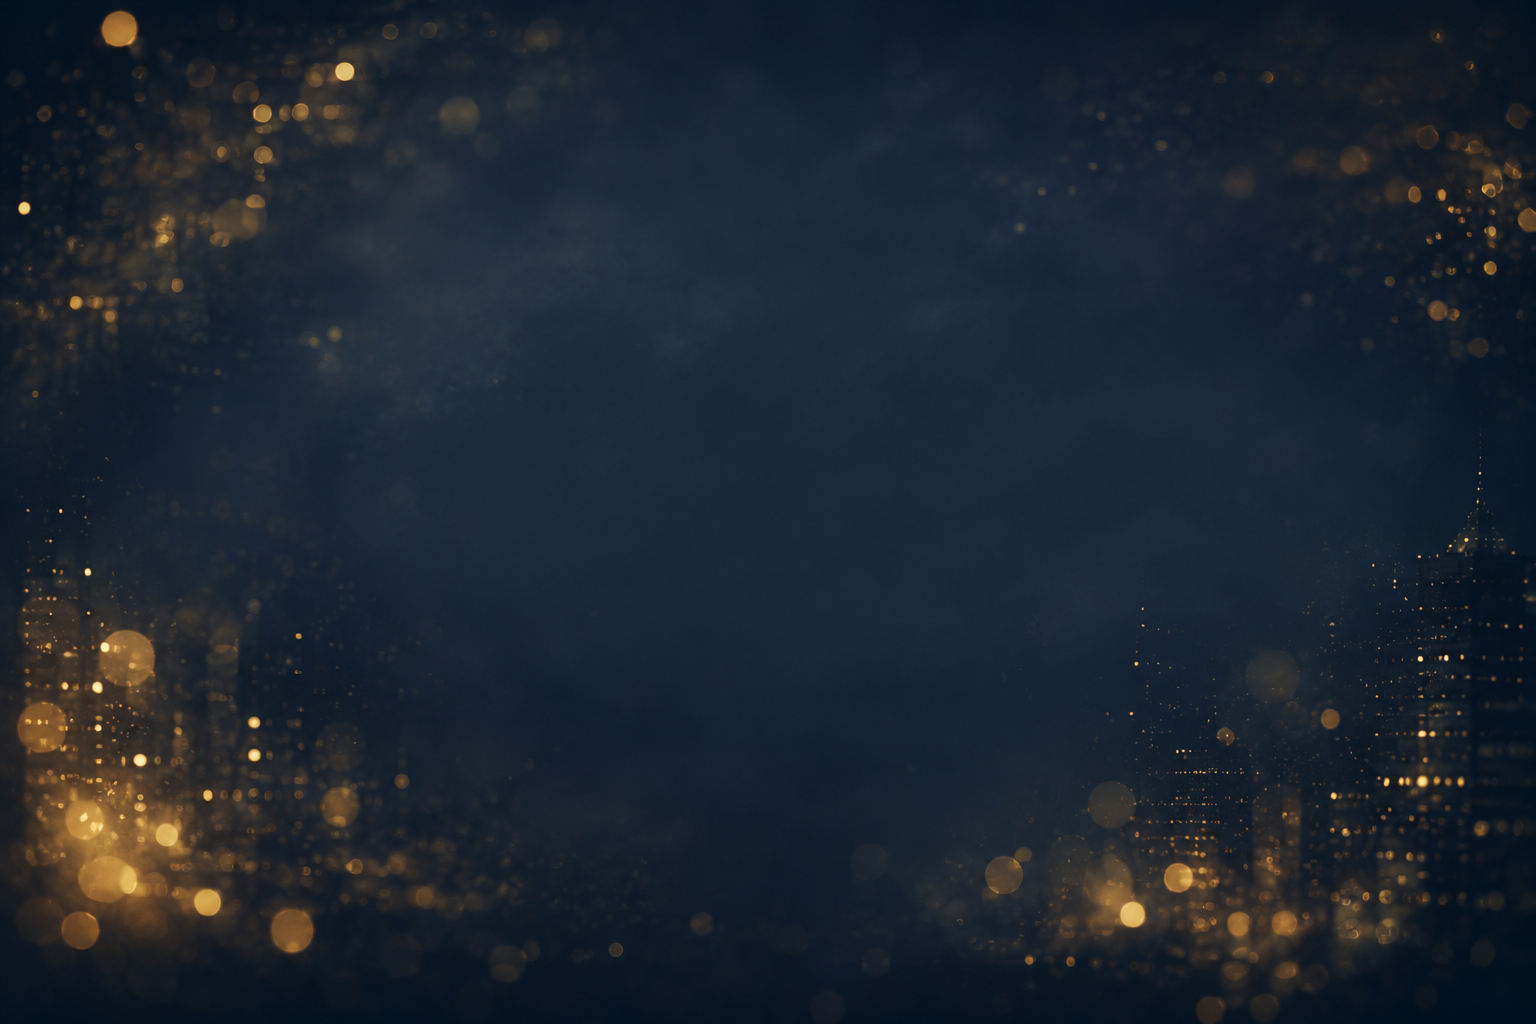
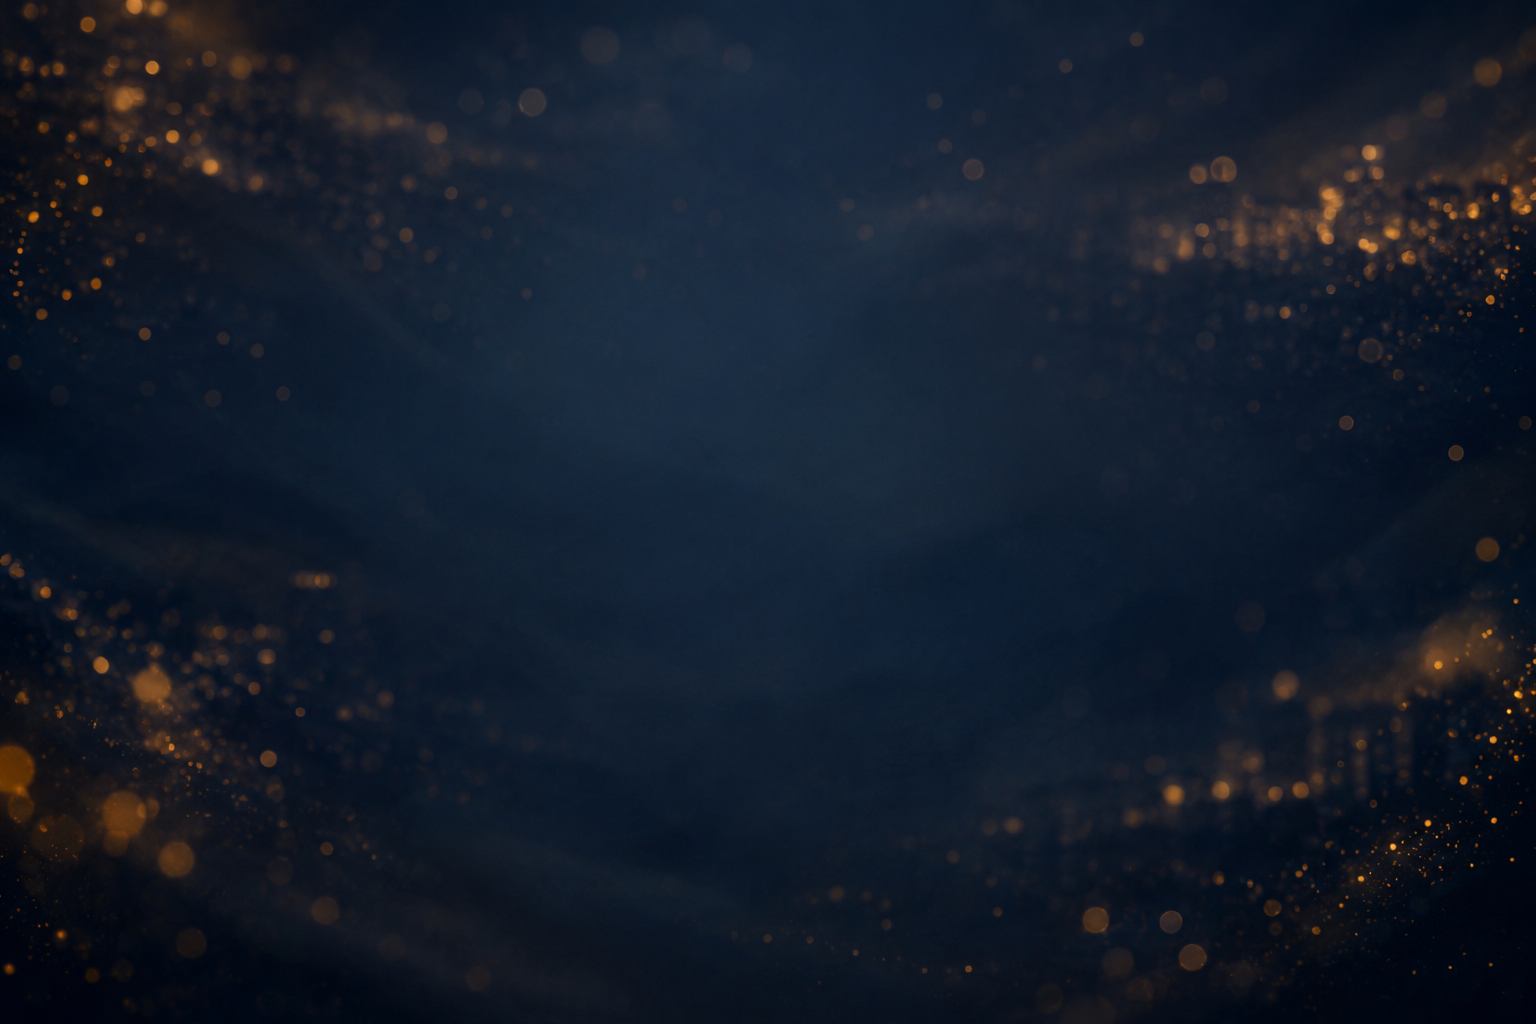
feat: add emerald/plum/carbon/aurora/dune hero cover presets

diff --git a/src/components/HeroCard/HeroCard.tsx b/src/components/HeroCard/HeroCard.tsx
@@ -150,7 +150,7 @@ function CardChip() {
 
 function ContactlessGlyph() {
   return (
-    <svg width="15" height="15" viewBox="0 0 24 24" fill="none" aria-hidden className="text-white/70">
+    <svg width="15" height="15" viewBox="0 0 24 24" fill="none" aria-hidden className="text-white/85">
       <path d="M8.5 8a6 6 0 0 1 0 8" stroke="currentColor" strokeWidth="2" strokeLinecap="round" />
       <path d="M12 5.5a10 10 0 0 1 0 13" stroke="currentColor" strokeWidth="2" strokeLinecap="round" />
       <path d="M15.5 3a14 14 0 0 1 0 18" stroke="currentColor" strokeWidth="2" strokeLinecap="round" />
@@ -160,18 +160,18 @@ function ContactlessGlyph() {
 
 function MetricItem({ icon, label, value, helper }: MetricProps) {
   return (
-    <div className="flex min-w-0 items-center gap-1.5 px-1">
-      <span className="grid h-5 w-5 shrink-0 place-items-center rounded-full border border-[#FFE2B8]/48 bg-[#FFE2B8]/10 text-[#FFE2B8] shadow-[inset_0_1px_0_rgba(255,255,255,0.12)]">
+    <div className="flex min-w-0 items-center gap-1 px-0.5">
+      <span className="grid h-[18px] w-[18px] shrink-0 place-items-center rounded-full border border-[#FFE2B8]/48 bg-[#FFE2B8]/10 text-[#FFE2B8] shadow-[inset_0_1px_0_rgba(255,255,255,0.12)]">
         {icon}
       </span>
       <span className="min-w-0">
-        <span className="block truncate font-mono text-[0.46rem] font-semibold uppercase leading-none tracking-[0.05em] text-[#FFE2B8]/72">
+        <span className="block truncate font-mono text-[0.52rem] font-semibold uppercase leading-none tracking-[0.03em] text-[#FFE2B8]/85">
           {label}
         </span>
-        <span className="mt-1 block truncate font-mono-th text-[0.62rem] font-medium leading-none tracking-[0.03em] text-white/86">
+        <span className="mt-1 block truncate font-mono-th text-[0.74rem] font-medium leading-none tracking-[0.02em] text-white/85">
           {value}
         </span>
-        <span className="mt-0.5 block truncate font-mono-th text-[0.42rem] font-medium leading-[0.62rem] tracking-[0.03em] text-white/56">
+        <span className="mt-0.5 block truncate font-mono-th text-[0.5rem] font-medium leading-[0.72rem] tracking-[0.02em] text-white/85">
           {helper}
         </span>
       </span>
@@ -261,17 +261,17 @@ export const HeroCard = memo(function HeroCard({
           </div>
           {validThruLabel && (
             <div className="leading-none">
-              <span className="block font-mono text-[0.45rem] font-bold uppercase tracking-[0.20em] text-white/62">
+              <span className="block font-mono text-[0.45rem] font-bold uppercase tracking-[0.20em] text-white/85">
                 Valid Thru
               </span>
-              <span className="mt-0.5 block font-mono text-[0.58rem] font-semibold tabular-nums tracking-[0.08em] text-white/90">
+              <span className="mt-0.5 block font-mono text-[0.58rem] font-semibold tabular-nums tracking-[0.08em] text-white/85">
                 {validThruLabel}
               </span>
             </div>
           )}
         </div>
         <div className="relative z-10 flex items-start justify-between gap-3">
-          <h2 className="min-w-0 truncate py-0.5 font-mono-th text-[0.85rem] font-light leading-tight tracking-[0.12em] text-white drop-shadow-[0_2px_10px_rgba(18,16,15,0.34)] min-[480px]:text-[1.42rem]">
+          <h2 className="min-w-0 truncate py-0.5 font-mono-th text-[0.85rem] font-light leading-tight tracking-[0.12em] text-white/85 drop-shadow-[0_2px_10px_rgba(18,16,15,0.34)] min-[480px]:text-[1.42rem]">
             สวัสดี {displayName}
           </h2>
           <div className="flex shrink-0 items-center gap-1 text-white/85 drop-shadow-[0_2px_10px_rgba(18,16,15,0.5)]">
@@ -312,10 +312,10 @@ export const HeroCard = memo(function HeroCard({
 
         <div className="relative z-10 mt-2">
           <div className="flex min-w-0 max-w-full items-baseline gap-2 whitespace-nowrap">
-            <span className="font-mono text-[clamp(1.1rem,5.2vw,2rem)] font-semibold leading-none tracking-[0.02em] tabular-nums text-white/90 drop-shadow-[0_2px_12px_rgba(18,16,15,0.36)]">
+            <span className="font-mono text-[clamp(1.1rem,5.2vw,2rem)] font-semibold leading-none tracking-[0.02em] tabular-nums text-white/85 drop-shadow-[0_2px_12px_rgba(18,16,15,0.36)]">
               {formatCurrency(Math.round(animSaved))}
             </span>
-            <span className="font-mono text-[clamp(0.8rem,3.6vw,1.2rem)] font-medium leading-none tracking-[0.04em] tabular-nums text-white/72 drop-shadow-[0_2px_8px_rgba(18,16,15,0.28)]">
+            <span className="font-mono text-[clamp(0.8rem,3.6vw,1.2rem)] font-medium leading-none tracking-[0.04em] tabular-nums text-white/85 drop-shadow-[0_2px_8px_rgba(18,16,15,0.28)]">
               <span className="mr-2">/</span>{formatCurrency(Math.round(animTarget))}
             </span>
           </div>
@@ -335,7 +335,7 @@ export const HeroCard = memo(function HeroCard({
                 />
               </div>
 
-              <p className="mt-3 truncate font-mono-th text-[0.72rem] font-medium leading-snug tracking-[0.03em] text-white/78 drop-shadow-[0_1px_7px_rgba(18,16,15,0.32)] min-[480px]:text-[0.82rem]">
+              <p className="mt-3 truncate font-mono-th text-[0.72rem] font-medium leading-snug tracking-[0.03em] text-white/85 drop-shadow-[0_1px_7px_rgba(18,16,15,0.32)] min-[480px]:text-[0.82rem]">
                 ต้องเก็บ <span className="font-mono tabular-nums">{remainingAmount}</span>
                 {timeLeft ? <> ภายในเวลา {timeLeft}</> : null}
               </p>
@@ -345,7 +345,7 @@ export const HeroCard = memo(function HeroCard({
 
         <div className="relative z-10 mt-4 grid grid-cols-4 border-t border-white/25 pt-3">
           {metrics.map((metric, index) => (
-            <div key={metric.label} className={index === 0 ? 'min-w-0' : 'min-w-0 border-l border-white/50'}>
+            <div key={metric.label} className={index === 0 ? 'min-w-0' : 'min-w-0 border-l border-white/50 pl-1.5'}>
               <MetricItem {...metric} />
             </div>
           ))}

diff --git a/src/lib/heroCovers.ts b/src/lib/heroCovers.ts
@@ -20,4 +20,9 @@ export const HERO_COVER_PRESETS: HeroCoverPreset[] = [
   { id: 'slate', url: '/hero-covers/slate.png', tint: { rgb: [20, 22, 26], strength: 0.5 } },
   { id: 'sunset', url: '/hero-covers/sunset.png', tint: { rgb: [36, 24, 30], strength: 0.6 } },
   { id: 'midnight', url: '/hero-covers/midnight.png', tint: { rgb: [12, 14, 24], strength: 0.6 } },
+  { id: 'emerald', url: '/hero-covers/emerald.png', tint: { rgb: [10, 30, 20], strength: 0.55 } },
+  { id: 'plum', url: '/hero-covers/plum.png', tint: { rgb: [30, 14, 26], strength: 0.6 } },
+  { id: 'carbon', url: '/hero-covers/carbon.png', tint: { rgb: [16, 16, 18], strength: 0.5 } },
+  { id: 'aurora', url: '/hero-covers/aurora.png', tint: { rgb: [14, 18, 30], strength: 0.6 } },
+  { id: 'dune', url: '/hero-covers/dune.png', tint: { rgb: [34, 26, 28], strength: 0.55 } },
 ];
